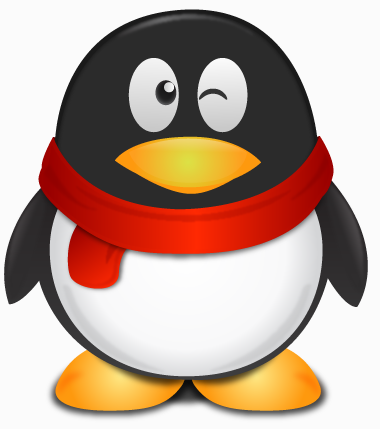
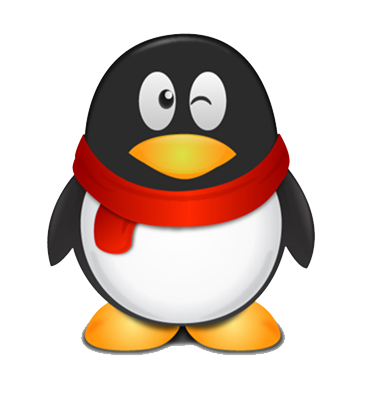
登录图标样式修改

diff --git a/code/Application/Home/View/Login/login.html b/code/Application/Home/View/Login/login.html
@@ -1,11 +1,11 @@
 <!DOCTYPE html PUBLIC "-//W3C//DTD XHTML 1.0 Transitional//EN" "http://www.w3.org/TR/xhtml1/DTD/xhtml1-transitional.dtd">
 <html xmlns="http://www.w3.org/1999/xhtml">
 <head>
-<meta http-equiv="Content-Type" content="text/html; charset=utf-8" />
-<link href="__PUBLIC__/css/public.css" rel="stylesheet" type="text/css" />
-<link href="__PUBLIC__/css/head.css" rel="stylesheet" type="text/css" />
-<link href="__PUBLIC__/css/login.css" rel="stylesheet" type="text/css" />
-<script type="text/javascript">
+  <meta http-equiv="Content-Type" content="text/html; charset=utf-8" />
+  <link href="__PUBLIC__/css/public.css" rel="stylesheet" type="text/css" />
+  <link href="__PUBLIC__/css/head.css" rel="stylesheet" type="text/css" />
+  <link href="__PUBLIC__/css/login.css" rel="stylesheet" type="text/css" />
+  <script type="text/javascript">
 function chk_form(){
     var user = document.getElementById("user");
     if(user.value==""){
@@ -14,7 +14,7 @@ function chk_form(){
         //user.focus();
     }
     var preg = /^\w+([-+.]\w+)*@\w+([-.]\w+)*\.\w+([-.]\w+)*/; //匹配Email
-    if(!preg.test(user.value)){ 
+    if(!preg.test(user.value)){
         alert("Email格式错误！");
         return false;
         //email.focus();
@@ -32,58 +32,79 @@ function chk_form(){
     }
 }
 </script>
-<title>用户登陆</title>
+  <title>用户登陆</title>
 </head>
 <body>
-<include file="Public/header.html" />
+  <include file="Public/header.html" />
 
+  <!--登录页-->
+  <div class="content">
+    <div class="mybody">
+      <div class="bread">
+        <span>
+          <a href="{:U('/')}">易学助手</a>
+        </span>
+        >
+        <a href="../../login">用户登录</a>
+      </div>
+      <!--登陆-->
+      <div class="search">
+        <div class="search1">
+          <h1>
+            <span>普通登录</span>
+          </h1>
+          <form action="{:U('home/login/validation')}" method="post" onsubmit="return chk_form();">
+            <input type="text"  name="yourname" id="user" class="email" placeholder="请输入邮箱">
 
-<!--登录页-->
-<div class="content">
-	<div class="mybody">
-    	<div class="bread"><span><a href="{:U('/')}">易学助手</a></span> > <a href="../../login">用户登录</a></div>
-		<!--登陆-->
-        	<div class="search">
-              <div class="search1">
-                  <h1><span>普通登录</span></h1>
-                    <form action="{:U('home/login/validation')}" method="post" onsubmit="return chk_form();">
-                        <input type="text"  name="yourname" id="user" class="email" placeholder="请输入邮箱">
+            <input type="password" name="yourpassword" id="pass" minlength="6" class="pwd" placeholder="密码大于6位">
 
-                        <input type="password" name="yourpassword" id="pass" minlength="6" class="pwd" placeholder="密码大于6位">
-
-                        <div id="u1476" class="ax_default link_button">
-                        <div id="u1476_div" class=""></div>
-                        <!-- Unnamed () -->
-                        <div id="u1477" class="text" style="visibility: visible;">
-                        <p><a href="{:U('/home/register')}">没有账号？</a></p>
-                        </div>
-                        </div>
-                        <input type="submit" value="登  录" class="login_btn" />       
-                   </form>
-                </div>  
-                <!--第三方登录-->  
-                <div class="search2">
-                   <form>
-                   <div id="u1549" class="text" style="visibility: visible;">
-                   <p></p>
-                   <p><span>使用第三方账号登录</span></p>
-                   </div>
-                   <table>
-                    <tr>
-                      <td width="150"><a href="#"><img src="__PUBLIC__/images/weixin.png" width="50" height="50" alt="gl"/></a></td>
-                      <td width="150"><a href="#"><img src="__PUBLIC__/images/weibo.png" width="50" height="50" alt="gl"/></a></td>
-                      <td width="150"><a href="#"><img src="__PUBLIC__/images/qq.png" width="50" height="50" alt="gl"/></a></td>
-                    </tr>
-
-                    </table>
-                   </form>
-                </div>
+            <div id="u1476" class="ax_default link_button">
+              <div id="u1476_div" class=""></div>
+              <!-- Unnamed () -->
+              <div id="u1477" class="text" style="visibility: visible;">
+                <p>
+                  <a href="{:U('/home/register')}">没有账号？</a>
+                </p>
+              </div>
             </div>
+            <input type="submit" value="登  录" class="login_btn" />
+          </form>
         </div>
-	</div>
-</div>
+        <!--第三方登录-->
+        <div class="search2">
+          <form>
+            <div id="u1549" class="text" style="visibility: visible;">
+              <p></p>
+              <p>
+                <span>使用第三方账号登录</span>
+              </p>
+            </div>
+            <table>
+              <tr>
+                <td width="150" align="center">
+                  <a href="#">
+                    <img src="__PUBLIC__/images/weixin.png" width="50" height="50" alt="gl"/>
+                  </a>
+                </td>
+                <td width="150" align="center">
+                  <a href="#">
+                    <img src="__PUBLIC__/images/weibo.png" width="50" height="50" alt="gl"/>
+                  </a>
+                </td>
+                <td width="150" align="center">
+                  <a href="#">
+                    <img src="__PUBLIC__/images/qq.png" width="50" height="50" alt="gl"/>
+                  </a>
+                </td>
+              </tr>
+            </table>
+          </form>
+        </div>
+      </div>
+    </div>
+  </div>
 
-<include file="Public/footer.html" />
+  <include file="Public/footer.html" />
 
 </body>
 </html>
